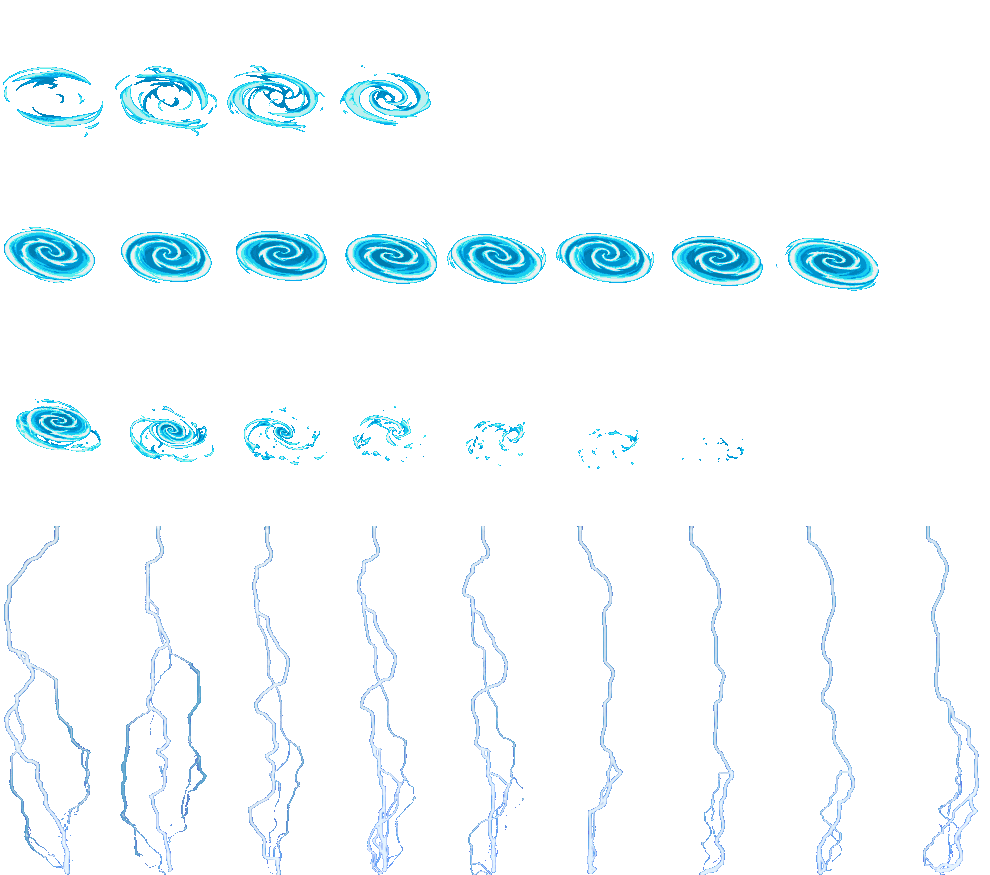
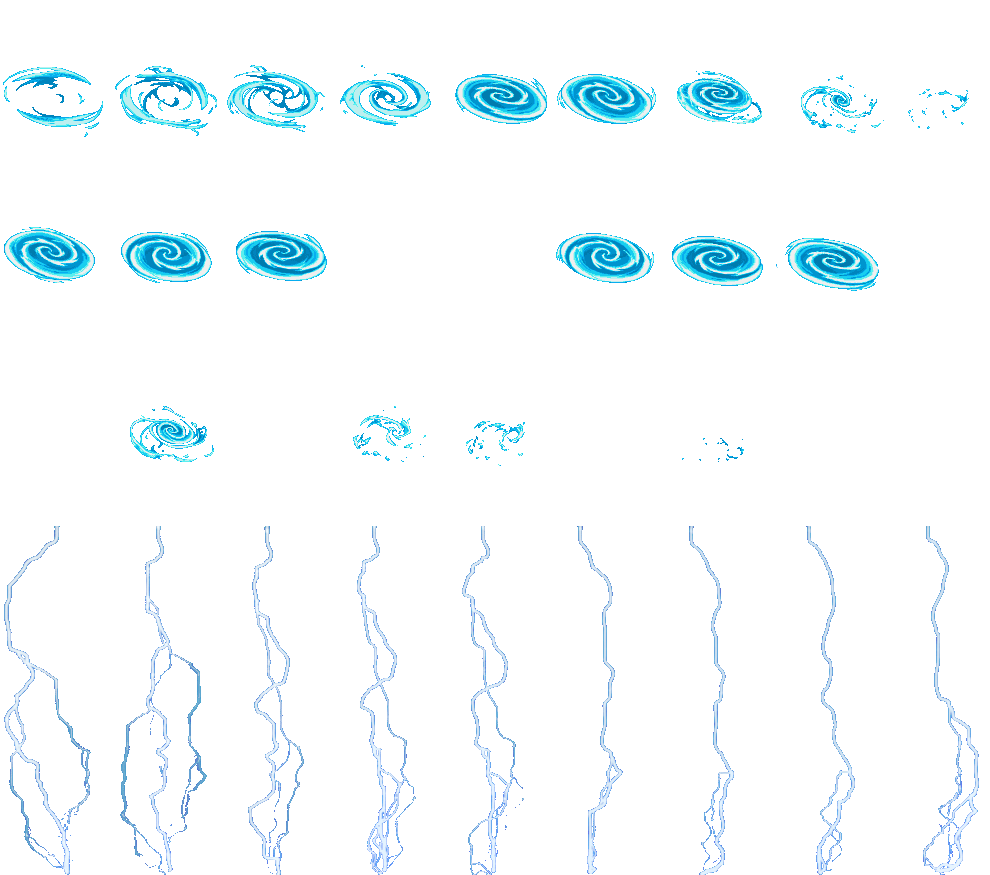
Skill2

diff --git a/cGraphicsLayer.cpp b/cGraphicsLayer.cpp
@@ -205,6 +205,10 @@ void cGraphicsLayer::LoadData()
 		D3DPOOL_DEFAULT, D3DX_FILTER_NONE, D3DX_FILTER_NONE,
 		0x00ff00ff, NULL, NULL, &texMana);
 
+	D3DXCreateTextureFromFileEx(g_pD3DDevice, "boss.png", 0, 0, 1, 0, D3DFMT_UNKNOWN,
+		D3DPOOL_DEFAULT, D3DX_FILTER_NONE, D3DX_FILTER_NONE,
+		NULL, NULL, NULL, &texBoss);
+
 }
 
 void cGraphicsLayer::UnLoadData()
@@ -213,6 +217,11 @@ void cGraphicsLayer::UnLoadData()
 	{
 		texMain->Release();
 		texMain = NULL;
+	}
+	if (texBoss)
+	{
+		texBoss->Release();
+		texBoss = NULL;
 	}
 	if (texEnd)
 	{
@@ -538,7 +547,14 @@ bool cGraphicsLayer::DrawUnits(cScene *Scene,cCritter *Critter,cSkeleton *Skelet
 						&D3DXVECTOR3(ix-30,iy-275,0.0f), 
 						0xFFFFFFFF);
 	}
-	
+	if (Critter->GetSkill2()) {
+
+		Critter->GetPosition(&posx, &posy);
+		Critter->getSkill2Rect(&rc);
+		g_pSprite->Draw(texSkills, &rc, NULL,
+			&D3DXVECTOR3(float(posx), float(posy), 0.0f),
+			0xFFFFFFFF);
+	}
 	//Draw Fire
 	if(Critter->GetShooting())
 	{
@@ -616,15 +632,15 @@ bool cGraphicsLayer::DrawUI(cCritter *Critter)
 
 	if (Critter->GetMana() > 0)
 	{
-		SetRect(&rc, 100, 50 + Critter->GetCD(), 150, 100);
+		SetRect(&rc, 100, 50 + Critter->GetCD1(), 150, 100);
 	}
 	else
 	{
-		SetRect(&rc, 0, 50 + Critter->GetCD(), 50, 100);
+		SetRect(&rc, 0, 50 + Critter->GetCD1(), 50, 100);
 	}
 
 		g_pSprite->Draw(texIcons, &rc, NULL,
-			&D3DXVECTOR3(float(611 - 250), float(600 - 60 + Critter->GetCD()), 0.0f),
+			&D3DXVECTOR3(float(611 - 250), float(600 - 60 + Critter->GetCD1()), 0.0f),
 			0xFFFFFFFF);
 
 	return true;

diff --git a/cCritter.cpp b/cCritter.cpp
@@ -35,6 +35,14 @@ cCritter::cCritter()
 	skill1_cost=1;
 	skill1_damage=20;
 
+	skill2 = false;
+	skill2_seq = 0;
+	skill2_delay = 0;
+	skill2_cd = 0;
+	skill2_cost = 1;
+	skill2_damage = 10;
+
+
 	hp=100;
 	energy=6;
 	damage=40;
@@ -628,11 +636,18 @@ int cCritter::GetMana()
 	return energy;
 }
 
-int cCritter::GetCD()
+int cCritter::GetCD1()
 {
 	return skill1_cd;
 
 }
+
+int cCritter::GetCD2()
+{
+	return skill2_cd;
+
+}
+
 void cCritter::enemyFaced(int enemy_cx, int enemy_cy)
 {
 	if (enemy_cx==cx && enemy_cy<cy) shoot_dir=N;
@@ -643,4 +658,49 @@ void cCritter::enemyFaced(int enemy_cx, int enemy_cy)
 	if (enemy_cx>cx && enemy_cy<cy) shoot_dir=NE;
 	if (enemy_cx>cx && enemy_cy>cy) shoot_dir=SE;
 	if (enemy_cx<cx && enemy_cy>cy) shoot_dir=SO;
+}
+
+void cCritter::getSkill2Rect(RECT *rc)
+{
+	SetRect(rc, 110 * skill2_seq, 0, 110 * (skill2_seq + 1), 140);
+}
+
+void cCritter::updateSkill2Seq()
+{
+	if (skill2) {
+		skill2_delay++;
+		if (skill2_delay == 10)
+		{
+			skill2_seq++;
+			if (skill2_seq>8) {
+				skill2_seq = 0;
+				skill2 = false;
+			}
+			skill2_delay = 0;
+		}
+	}
+	else {
+		skill2_delay = 0;
+		skill2_seq = 0;
+	}
+	if (skill2_cd>0)--skill2_cd;
+}
+
+bool cCritter::GetSkill2()
+{
+	return skill2;
+}
+
+void cCritter::UseSkill2()
+{
+	if (!skill2&&skill2_cd == 0 && energy >= skill2_cost) {
+		energy -= skill2_cost;
+		skill2_seq = 0;
+		skill2_delay = 0;
+		skill2_cd = 50;
+		skill2 = true;
+		shoot = false;
+		//attack=false;
+		//Trajectory.Restart();
+	}
 }

diff --git a/cGame.cpp b/cGame.cpp
@@ -199,10 +199,6 @@ void cGame::ProcessOrder()
 	b4pointer = Mouse->GetPointer();
 	Mouse->GetPosition(&mx,&my);
 
-	Critter.GetCell(&cx,&cy);
-	Scene.cx=cx-SCENE_WIDTH/2+5;
-	Scene.cy=cy-SCENE_HEIGHT+5;
-	
     // Enemy Moves!
 	DoEnemyTurn();
 
@@ -293,8 +289,6 @@ void cGame::ProcessOrder()
 			Mouse->SetPointer(SELECT);
 			return;
 		}
-
-		/*
 				//Arrow mouse pointers to move through scene
 		if	   (Mouse->In(             s,             s,SCREEN_RES_X-s,SCREEN_RES_Y-s)) Mouse->SetPointer(NORMAL);
 		else if(Mouse->In(             s,             0,SCREEN_RES_X-s,             s)) Mouse->SetPointer(MN);
@@ -309,7 +303,6 @@ void cGame::ProcessOrder()
 
 		p = Mouse->GetPointer();
 		if((p>=MN)&&(p<=MSO))	Scene.Move(p);
-		*/
 		//Mouse over Enemy
 		attack=false;
 		/*
@@ -366,6 +359,13 @@ void cGame::ProcessOrder()
 		}
 		if (target!=-1) Critter.UseSkill1(fcx,fcy,target);
 	}
+
+	if (Input.KeyDown(DIK_2)) // <-- windowz plz, f*ck u.
+	{
+		// TODO: Comprovar posicion mouse per cada enemy + range
+		Critter.UseSkill2();
+	}
+
 }
 
 void cGame::ProcessAttacks()
@@ -373,6 +373,7 @@ void cGame::ProcessAttacks()
 	int cx,cy;
 	Critter.updateAttackSeq();
 	Critter.updateSkill1Seq();
+	Critter.updateSkill2Seq();
 	if(Critter.GetSkill1()&&Critter.Skill1Hit()) {
 		int enemyId = Critter.GetSkill1Target();
 		if (Enemies[enemyId].isActive()) Enemies[enemyId].reduceHP(Critter.getSkill1Damage());

diff --git a/cCritter.h b/cCritter.h
@@ -59,9 +59,18 @@ public:
 	int GetSkill1Target();
 	int getSkill1Damage();
 	int GetSkill1Range();
+
+	void UseSkill2();
+	void updateSkill2Seq();
+	void getSkill2Rect(RECT *rc);
+	bool GetSkill2();
+	bool Skill2Hit();
+	int getSkill2Damage();
+
 	int GetHP();
 	int GetMana();
-	int GetCD();
+	int GetCD1();
+	int GetCD2();
 
 private:
 	int x,y;			//Position in total map
@@ -86,6 +95,7 @@ private:
 	int shoot_seq;		//Shooter sequence animation control
 	int shoot_delay;	//Shooter animation delay
 	int shoot_dir;
+	
 	bool skill1;
 	int skill1x,skill1y;
 	int skill1_seq;
@@ -95,6 +105,14 @@ private:
 	int skill1_cost;
 	int skill1_damage;
 	int skill1_target;
+
+	bool skill2 = false;
+	int skill2_seq;
+	int skill2_delay;
+	int skill2_cd;
+	int skill2_cost;
+	int skill2_damage;
+
 	int sprite_height;	//Offset to aply on the vertical axis in case the sprite is larger than 1 tile
 };
 

diff --git a/cGraphicsLayer.h b/cGraphicsLayer.h
@@ -63,6 +63,7 @@ private:
 	LPDIRECT3DTEXTURE9 texSlash;
 	LPDIRECT3DTEXTURE9 texBossAD;
 	LPDIRECT3DTEXTURE9 texEnd;
+	LPDIRECT3DTEXTURE9 texBoss;
 
 	LPD3DXFONT font;
 };
